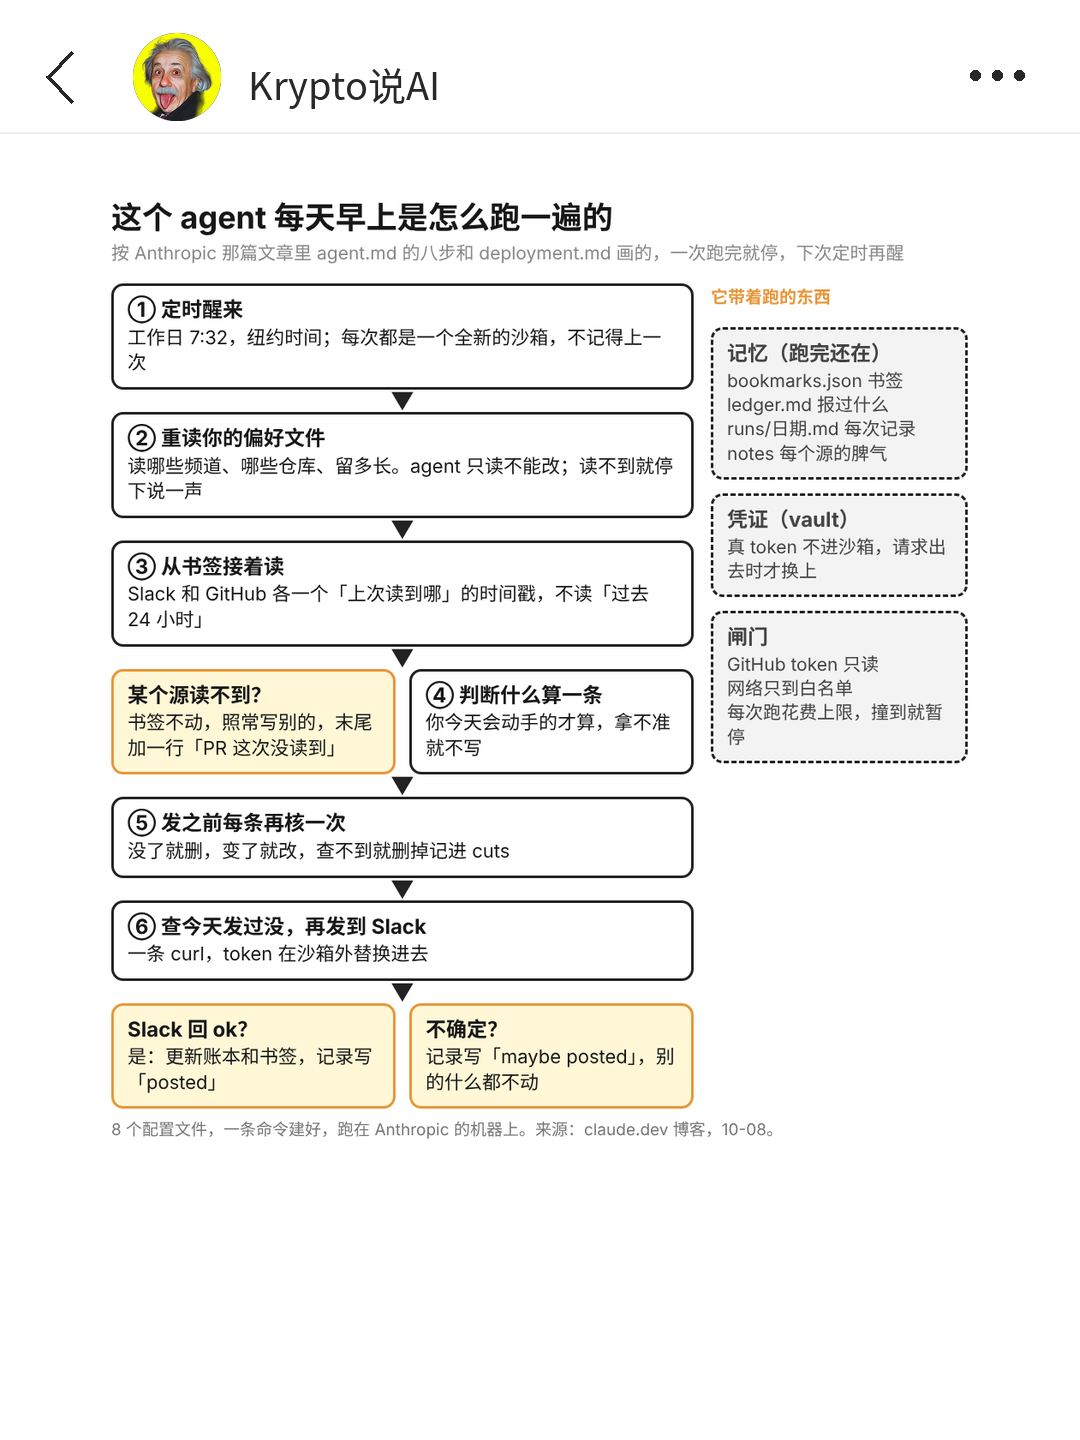
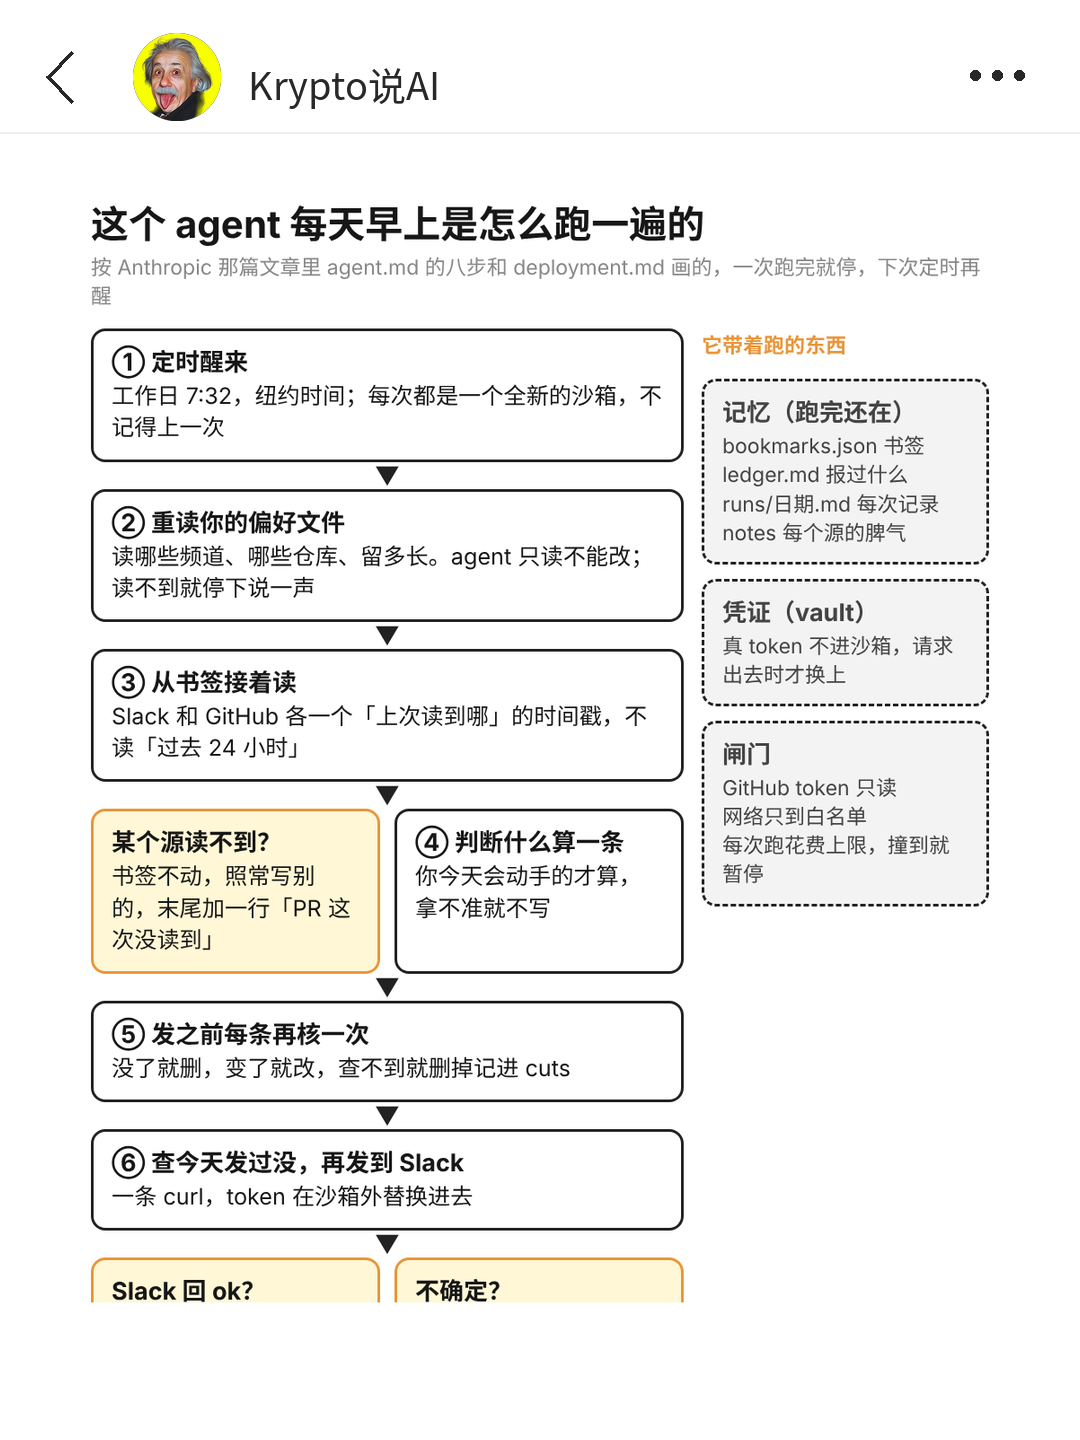
agent automations 稿：流程图放大重排

Changed region(s): [[0.0611, 0.125, 0.9167, 0.9062]]

diff --git a/发布/2026-10-09_agent-automations/meme版/编辑用/flow.html b/发布/2026-10-09_agent-automations/meme版/编辑用/flow.html
@@ -1,22 +1,22 @@
 <!doctype html><html><head><meta charset="utf-8"><style>
 body{margin:0;width:540px;height:720px;background:#fff;font-family:-apple-system,"PingFang SC","Noto Sans CJK SC",sans-serif;color:#171717}
 .wrap{padding:16px 20px 0}
-h1{font-size:18px;margin:0 0 2px;font-weight:700}
-.sub{font-size:10.5px;color:#888;margin-bottom:10px;line-height:1.4}
+h1{font-size:21px;margin:0 0 2px;font-weight:700}
+.sub{font-size:11.5px;color:#888;margin-bottom:10px;line-height:1.4}
 .row{display:flex;gap:10px;align-items:stretch}
 .col{flex:1;display:flex;flex-direction:column;align-items:center}
-.box{border:1.6px solid #222;border-radius:7px;padding:6px 8px;font-size:11px;line-height:1.35;width:100%;box-sizing:border-box;background:#fff}
-.box b{display:block;font-size:12px;margin-bottom:1px}
+.box{border:1.8px solid #222;border-radius:8px;padding:8px 10px;font-size:12.6px;line-height:1.4;width:100%;box-sizing:border-box;background:#fff}
+.box b{display:block;font-size:13.5px;margin-bottom:1px}
 .box.y{background:#fff7d6;border-color:#e8963a}
 .box.g{background:#f3f3f3;border-style:dashed;color:#444}
-.arrow{height:13px;display:flex;align-items:center;justify-content:center;color:#222;font-size:14px;line-height:1}
+.arrow{height:15px;display:flex;align-items:center;justify-content:center;color:#222;font-size:14px;line-height:1}
 .branch{display:flex;gap:8px;width:100%}
 .branch .box{flex:1}
-.side{width:150px;display:flex;flex-direction:column;gap:8px}
-.side .box{font-size:10.5px}
+.side{width:160px;display:flex;flex-direction:column;gap:8px}
+.side .box{font-size:11.5px}
 .main{flex:1;display:flex;flex-direction:column;align-items:center}
-.lbl{font-size:10px;color:#e8963a;font-weight:700;margin:0 0 3px;align-self:flex-start}
-.foot{font-size:9.5px;color:#777;margin-top:6px;line-height:1.4}
+.lbl{font-size:11.5px;color:#e8963a;font-weight:700;margin:0 0 3px;align-self:flex-start}
+.foot{font-size:11px;color:#777;margin-top:8px;line-height:1.4}
 </style></head><body><div class="wrap">
 <h1>这个 agent 每天早上是怎么跑一遍的</h1>
 <div class="sub">按 Anthropic 那篇文章里 agent.md 的八步和 deployment.md 画的，一次跑完就停，下次定时再醒</div>
